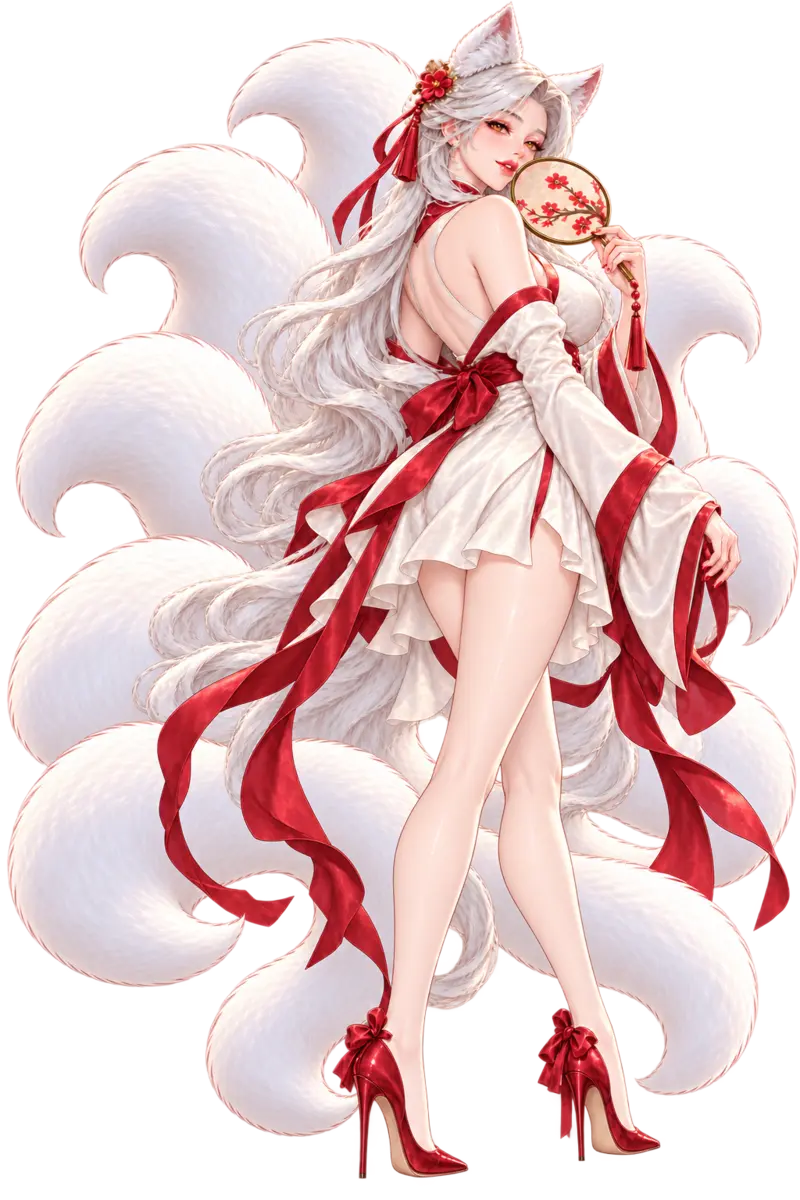
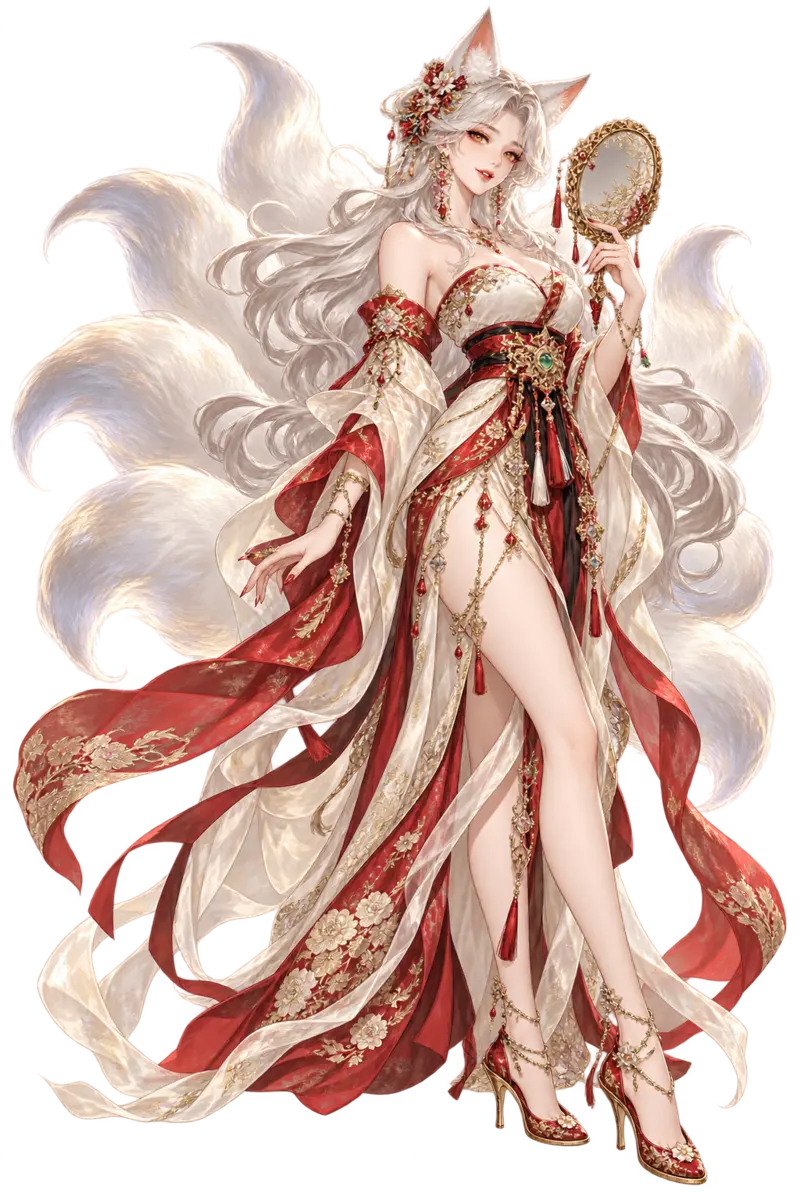
feat: 첫 화면을 배경까지 그려진 카드 그림으로, 전신 그림을 처음 화풍으로 되돌림
- 첫 화면: 메뉴와 할 일 사이에 식객 카드 그림을 크게(이름표는 그림 왼쪽 아래)
- 이야기 장면의 백설·무영·소담 전신 그림을 카드와 같은 처음 화풍으로 되돌림

Claude-Session: https://claude.ai/code/session_01AG3ixGBdGKPAAzXvjh6L4F

diff --git a/src/ui/HomeView.tsx b/src/ui/HomeView.tsx
@@ -1,4 +1,4 @@
-import { useEffect, useState, type CSSProperties } from 'react';
+import { useEffect, useState } from 'react';
 import { createPortal } from 'react-dom';
 import { activeCombos, assign, feast, feastCost, feastFame, hasAptitude, nextRank, ownedYokai, power, promote, promoteCheck, slotsPerWorkplace, statsOf, useWish, workplaceOf, workplaceRate, } from '../core/engine';
 import { fmt, fmtRate } from '../core/format';
@@ -49,23 +49,18 @@ export function HomeView({ view, now, open, go, onHeroine }: Props) {
         setBanquet(false);
     } };
     return <div className="view home">
-  <div className="stand-bg" style={{ '--theme': theme } as CSSProperties}>
-   <div className="stand-face" style={{ backgroundImage: `url(${ART.full(def.id)})` }}/>
-   <i className="band b1"/><i className="band b2"/>
-  </div>
   <div className="home-menu">
    <button className="menu-icon" data-guide="story" onClick={() => open({ kind: 'story', episode: ep && !locked ? ep.id : undefined })}><LineIcon name="scroll" size={24}/><span>이야기</span>{ep && !locked && <i className="badge">!</i>}</button>
    <button className="menu-icon" data-guide="ttuk" disabled={!view.wish.pending && view.wish.charges <= 0} onClick={doWish}><LineIcon name="flag" size={24}/><span>정무</span>{(view.wish.pending || view.wish.charges > 0) && <i className="badge">{view.wish.pending ? '!' : view.wish.charges}</i>}</button>
    <button className="menu-icon" data-guide={wpTarget ?? 'work'} onClick={() => setWork(true)}><LineIcon name="home" size={24}/><span>일터</span>{resting && <i className="badge dot"/>}</button>
    <button className="menu-icon" data-guide="feast" onClick={() => setBanquet(true)}><LineIcon name="cup" size={24}/><span>연회</span></button>
   </div>
-  <div className="heroine">
+  <div className="heroine card-stage">
    <button className="heroine-art" aria-label={`${def.name}에게 말 걸기`} onClick={poke}>
-    <img className="heroine-shadow" src={ART.full(def.id)} alt="" aria-hidden="true"/>
-    <Art className="heroine-img" src={ART.full(def.id)} alt={def.name} fallback={<div className="portrait-fallback">{def.name}</div>}/>
+    <Art className="heroine-card" src={ART.card(def.id)} alt={def.name} fallback={<div className="portrait-fallback">{def.name}</div>}/>
    </button>
+   <div className="nameplate"><small style={{ background: theme }}>{def.kind}</small><b>{def.name}</b></div>
   </div>
-  <div className="nameplate"><small style={{ background: theme }}>{def.kind}</small><b>{def.name}</b></div>
   {line ? <div className="say" role="status"><b>{def.name}</b><span>{line}</span><button onClick={() => onHeroine(def.id)}>대화하기 ›</button></div> : !step && <button className="quest" onClick={() => go(hint.target)}><b>할 일</b><span>{hint.text}</span><em>가기 ›</em></button>}
   {work && createPortal(<WorkSheet view={view} open={open} picking={picking} setPicking={setPicking} onClose={() => { setWork(false); setPicking(null); }}/>, document.body)}
   {banquet && createPortal(<><div className="dim" onClick={() => setBanquet(false)}/><div className="modal" role="dialog" aria-label="연회"><div className="title">연회 열기</div><div className="bubble">곡식 {fmt(feastCost(view.rank))} · 명성 +{fmt(feastFame(view))}<br />모든 식객의 호감도가 올라갑니다.</div><div className="actions"><button className="btn hong" disabled={view.res.grain < feastCost(view.rank)} onClick={doFeast}>연회 열기</button><button className="btn" onClick={() => setBanquet(false)}>닫기</button></div></div></>, document.body)}

diff --git a/src/styles.css b/src/styles.css
@@ -628,3 +628,10 @@ body:has(.guide) .sheet { max-height: calc(100dvh - 150px); }
 .vn-box.with-face { padding-left: 96px; min-height: 140px; }
 .vn-box .vn-face { position: absolute; left: 12px; top: -26px; width: 74px; height: 74px; border-radius: 50%; object-fit: cover; border: 3px solid var(--panel, #fffdf9); box-shadow: 0 4px 12px rgba(80,40,30,.25); background: #efe4dc; }
 .vn-box.with-face .vn-name { left: 96px; }
+
+/* 첫 화면: 배경까지 그려진 카드 그림을 메뉴와 할 일 사이에 크게. 메뉴·할 일은 그림 밖에 둔다. */
+.home { background: var(--wood, #f7f0e8); }
+.home .card-stage { position: relative; flex: 1; min-height: 0; margin: 6px 12px 0; border-radius: 16px; overflow: hidden; box-shadow: 0 6px 20px rgba(80,40,30,.18); padding: 0; }
+.home .card-stage .heroine-art { position: absolute; inset: 0; display: block; }
+.home .card-stage .heroine-card { position: absolute; inset: 0; width: 100%; height: 100%; object-fit: cover; object-position: 50% 12%; }
+.home .card-stage .nameplate { left: 10px; bottom: 12px; }
